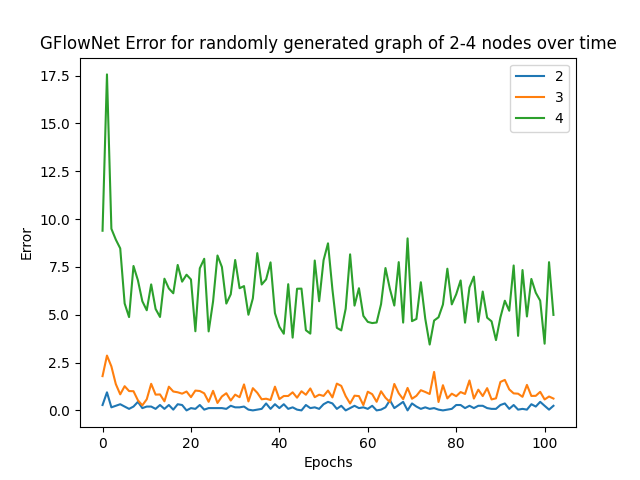
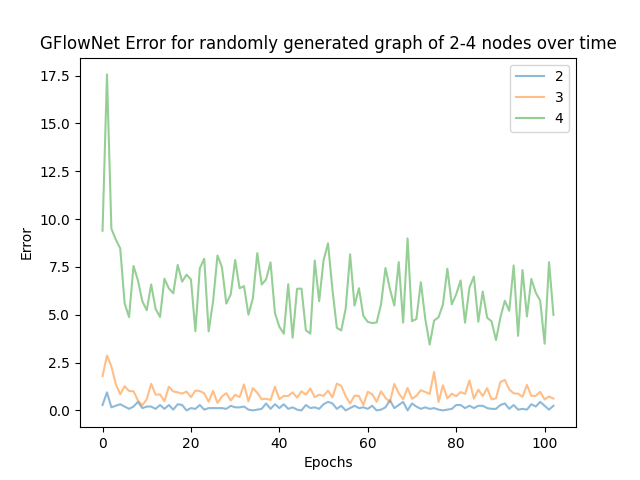
Saving network for small graphs

diff --git a/GraphClustering/Core/Core.py b/GraphClustering/Core/Core.py
@@ -1177,7 +1177,7 @@ def compare_results_small_graphs(filename,
                 gibbsDistribution = empiricalSampleDistribution(tempSamples, N, net, numpy=True, log=True)
                 inf_mask = gibbsDistribution == -np.inf
                 gibbsDistribution[inf_mask] = np.min(gibbsDistribution[np.logical_not(inf_mask)])
-
+                net.save(f'Data/SmallNet_{N}_{max_epochs}')
                 plot_posterior(cluster_post,
                                sort_idx=sort_idx,
                                net_posteriors_numpy=None,
@@ -1217,6 +1217,7 @@ def compare_results_small_graphs(filename,
                     test_temp.append(difference)
 
                 if plot_last:
+                    net.save(f'Data/SmallNet_{N}_{max_epochs}')
                     gibbsSamples = Gibbs_sample_torch(adjacency_matrix_test, n_samples_distribution * 2,
                                                       return_clustering_matrix=True)
                     tempSamples = torch.zeros((n_samples_distribution, N ** 2 * 2))
@@ -1239,7 +1240,7 @@ def compare_results_small_graphs(filename,
     return fully_trained_networks
 
 
-def plot_posterior(cluster_post, sort_idx = None, net_posteriors_numpy = None, sample_posteriors_numpy = None, gibbs_sample_posteriors=None, log = True, saveFilename='', title=''):
+def plot_posterior(cluster_post, sort_idx = None, net_posteriors_numpy = None, sample_posteriors_numpy = None, gibbs_sample_posteriors=None, log = True, saveFilename='', title='', alpha=.6):
     log_string = " Log " if log else " "
     order = "index" if (sort_idx is None) else "Magnitude"
     xlab = "Cluster Index" if (sort_idx is None) else "Sorted Cluster Index"
@@ -1252,16 +1253,16 @@ def plot_posterior(cluster_post, sort_idx = None, net_posteriors_numpy = None, s
     else:
         plt.title('Cluster Posterior' + log_string + 'Probabilites by ' + order + from_network)
     if not log: cluster_post = np.exp(cluster_post)
-    plt.plot(cluster_post[sort_idx], "bo", label="Exact values")
+    plt.plot(cluster_post[sort_idx], "bo", label="Exact values", alpha=alpha)
     if net_posteriors_numpy is not None:
         if not log: net_posteriors_numpy = np.exp(net_posteriors_numpy)
-        plt.plot(net_posteriors_numpy[sort_idx], "go", markersize=4, label="From Network")
+        plt.plot(net_posteriors_numpy[sort_idx], "go", markersize=4, label="From Network", alpha=alpha)
     if sample_posteriors_numpy is not None:
         if not log: sample_posteriors_numpy = np.exp(sample_posteriors_numpy)
-        plt.plot(sample_posteriors_numpy[sort_idx], "gx", label="GFlowNet Sampled Empirically")
+        plt.plot(sample_posteriors_numpy[sort_idx], "gx", label="GFlowNet Sampled Empirically", alpha=alpha)
     if gibbs_sample_posteriors is not None:
         if not log: gibbs_sample_posteriors = np.exp(gibbs_sample_posteriors)
-        plt.plot(gibbs_sample_posteriors[sort_idx], "ro", label="Gibbs Sampled Empirically")
+        plt.plot(gibbs_sample_posteriors[sort_idx], "ro", label="Gibbs Sampled Empirically", alpha=alpha)
 
     plt.xlabel(xlab)
     plt.ylabel("Posterior Probability")

diff --git a/GraphClustering/ResultsSmall/PlotSmallGraphs.py b/GraphClustering/ResultsSmall/PlotSmallGraphs.py
@@ -4,13 +4,14 @@ import matplotlib.pyplot as plt
 
 
 if __name__ == '__main__':
+    alpha = .8
     df = pd.read_csv('Data/New_Final_Comparison_test_o_101_1_2_5.txt', sep=',')
     df2 = pd.read_csv('Data/New_Final_Comparison_test_o_101_1_6_6.txt', sep=',')
     df3 = pd.read_csv('Data/New_Final_Comparison_test_o_101_1_2_5_TEST.csv', sep=',')
     df4 = pd.read_csv('Data/New_Final_Comparison_test_o_101_1_6_6_TEST.csv', sep=',')
 
     for i, row in enumerate(df.values[:-1]):
-        plt.plot(row[:-1], label=f'{i+2}')
+        plt.plot(row[:-1], label=f'{i+2}', alpha=alpha)
     plt.legend()
     plt.title('GFlowNet Error for randomly generated graph of 2-4 nodes over time')
     plt.xlabel('Epochs')
@@ -18,7 +19,7 @@ if __name__ == '__main__':
     plt.savefig('Plots/ErrorPlot2_4.png')
     plt.show()
 
-    plt.plot(df.values[-1], label=f'5')
+    plt.plot(df.values[-1], label=f'5', alpha=alpha)
     plt.legend()
     plt.title('GFlowNet Error for randomly generated graph of 5 nodes over time')
     plt.xlabel('Epochs')
@@ -26,7 +27,7 @@ if __name__ == '__main__':
     plt.savefig('Plots/ErrorPlot5.png')
     plt.show()
 
-    plt.plot(df2.values[-1], label=f'6')
+    plt.plot(df2.values[-1], label=f'6', alpha=alpha)
     plt.legend()
     plt.title('GFlowNet Error for randomly generated graph of 6 nodes over time')
     plt.xlabel('Epochs')
@@ -35,7 +36,7 @@ if __name__ == '__main__':
     plt.show()
 
     for i, row in enumerate(df.values[:-1]):
-        plt.plot(row[:-1], label=f'{i+2}')
+        plt.plot(row[:-1], label=f'{i+2}', alpha=alpha)
     plt.legend()
     plt.title('GFlowNet Error for randomly generated graph of 2-4 nodes over time')
     plt.xlabel('Epochs')
@@ -43,7 +44,7 @@ if __name__ == '__main__':
     plt.savefig('Plots/TransferErrorPlot2_4.png')
     plt.show()
 
-    plt.plot(df.values[-1], label=f'5')
+    plt.plot(df.values[-1], label=f'5', alpha=alpha)
     plt.legend()
     plt.title('GFlowNet Error for randomly generated graph of 5 nodes over time')
     plt.xlabel('Epochs')
@@ -51,7 +52,7 @@ if __name__ == '__main__':
     plt.savefig('Plots/TransferErrorPlot5.png')
     plt.show()
 
-    plt.plot(df2.values[-1], label=f'6')
+    plt.plot(df2.values[-1], label=f'6', alpha=alpha)
     plt.legend()
     plt.title('GFlowNet Error for randomly generated graph of 6 nodes over time')
     plt.xlabel('Epochs')

diff --git a/GraphClustering/ResultsSmall/RunComparison.py b/GraphClustering/ResultsSmall/RunComparison.py
@@ -6,9 +6,9 @@ except ModuleNotFoundError:
     from GraphClustering.Core.Core import compare_results_small_graphs, print_Latex_table
 
 if __name__ == '__main__':
-    min_N = 2
-    max_N = 5
-    max_epochs = 101
+    min_N = 6
+    max_N = 6
+    max_epochs = 99
     epoch_interval = 1
     n_samples = 1000
     use_node_order = True
@@ -21,7 +21,7 @@ if __name__ == '__main__':
                                             run_test=True,
                                             plot_last=True,
                                             n_samples=n_samples,
-                                            n_samples_distribution=100,
+                                            n_samples_distribution=n_samples,
                                             max_epochs=max_epochs,
                                             epoch_interval=epoch_interval,
                                             use_fixed_node_order=use_node_order)

diff --git a/GraphClustering/LargeGraphs/KarateClubGPU.py b/GraphClustering/LargeGraphs/KarateClubGPU.py
@@ -28,7 +28,7 @@ if __name__ == '__main__':
     """
     check_gpu()
     # 9000 for the n_layers=5, n_hidden=64
-    n_samples = 10
+    n_samples = 10000
     epoch_interval = 100
     min_epochs = 0
     max_epochs = 500
